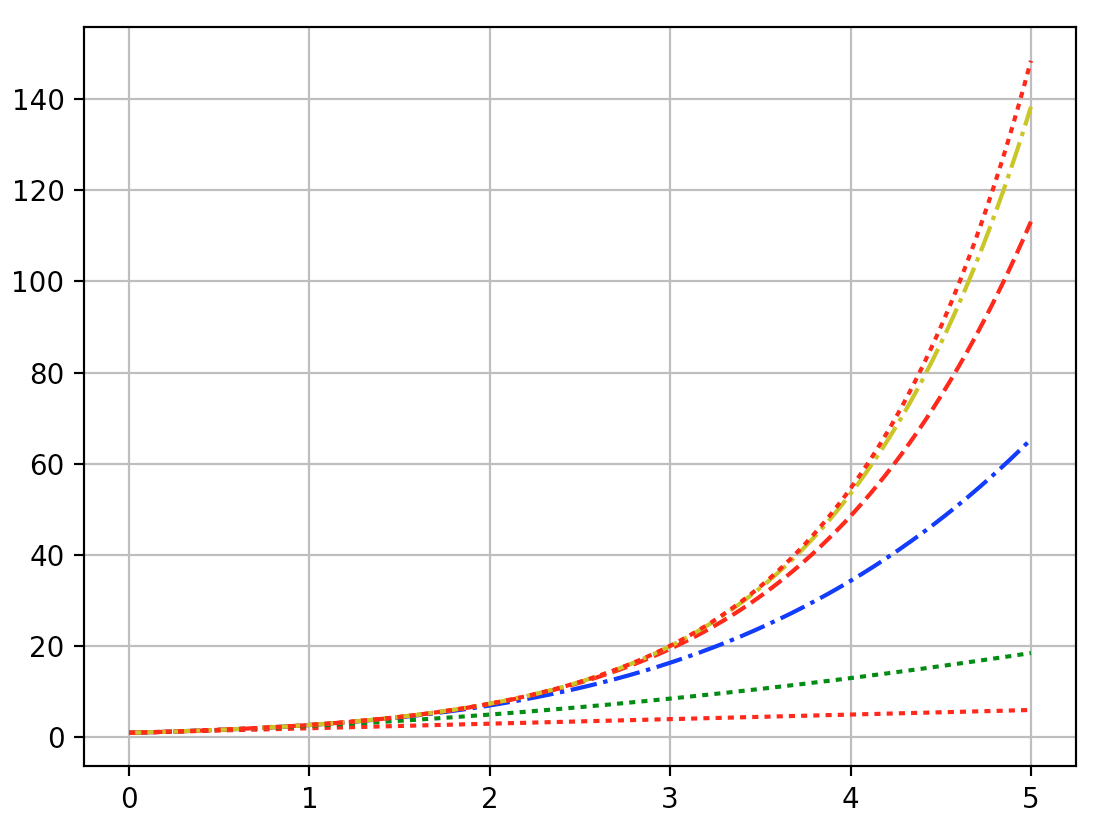
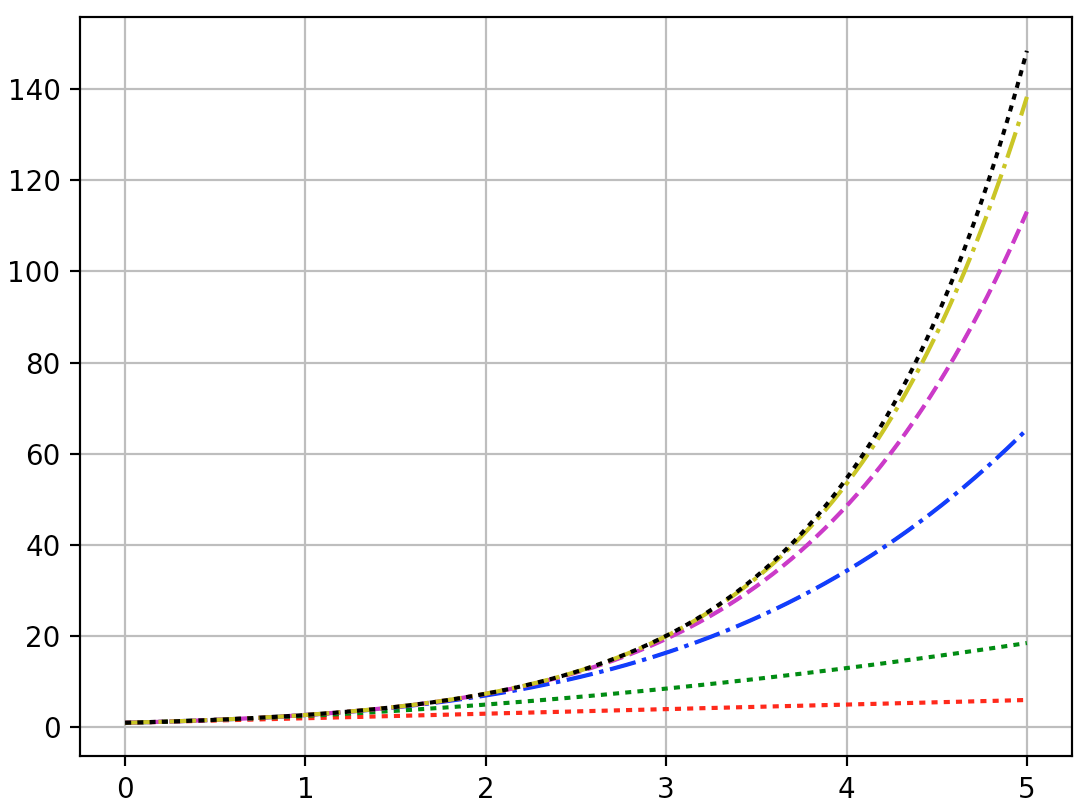
optimize the codes

diff --git a/_posts/2017-09-16-taylor-series-derivation.md b/_posts/2017-09-16-taylor-series-derivation.md
@@ -154,6 +154,7 @@ def factorial(n):
         c += 1
     return f
 
+
 def item(x, n):
     return np.power(x, n) / factorial(n)
 
@@ -163,12 +164,12 @@ def taylor(x, n):
 X = np.linspace(0, 5, 1000)
 plt.grid(True)
 
-plt.plot(X, [taylor(i, 2) for i in X], 'r:')
-plt.plot(X, [taylor(i, 3) for i in X], 'g:')
-plt.plot(X, [taylor(i, 5) for i in X], 'b-.')
-plt.plot(X, [taylor(i, 7) for i in X], 'r--')
-plt.plot(X, [taylor(i, 9) for i in X], 'y-.')
-plt.plot(X, np.exp(X), 'r:')
+plt.plot(X, [taylor(i, 2) for i in X], 'r:')    # 红色
+plt.plot(X, [taylor(i, 3) for i in X], 'g:')    # 绿色
+plt.plot(X, [taylor(i, 5) for i in X], 'b-.')   # 蓝色
+plt.plot(X, [taylor(i, 7) for i in X], 'm--')   # 紫红色
+plt.plot(X, [taylor(i, 9) for i in X], 'y-.')   # 黄色
+plt.plot(X, np.exp(X), 'k:')                    # 黑色
 
 plt.show()
 ```
